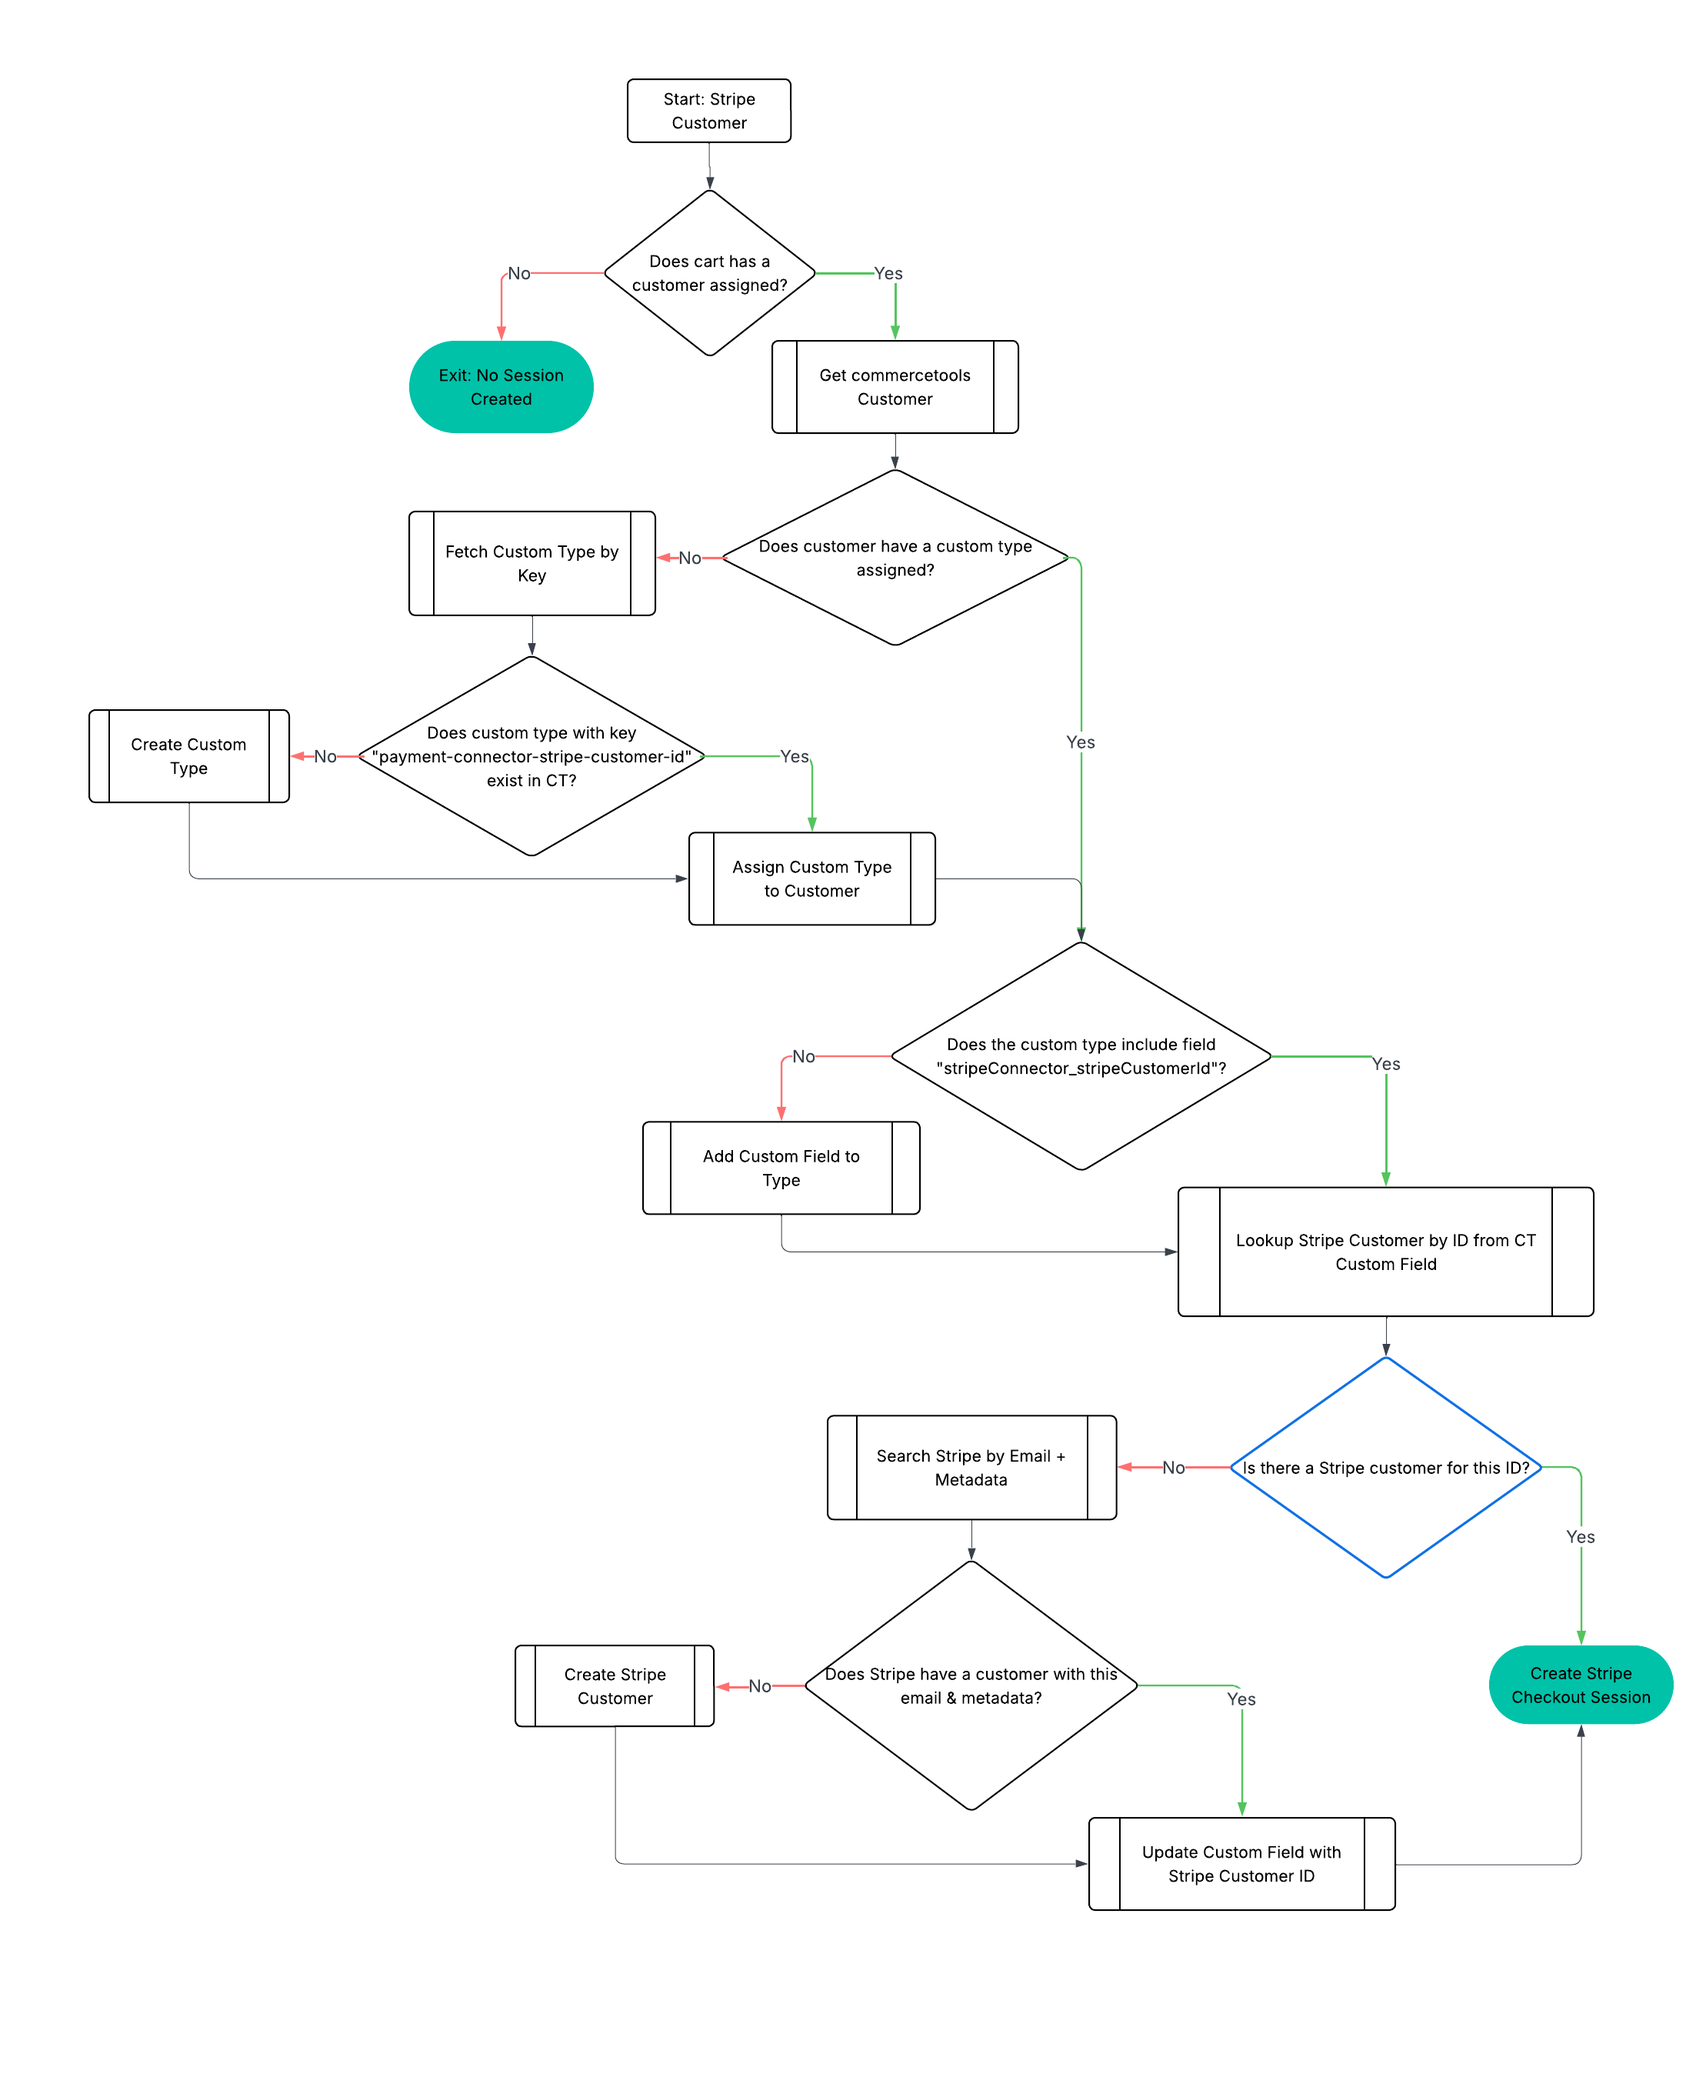
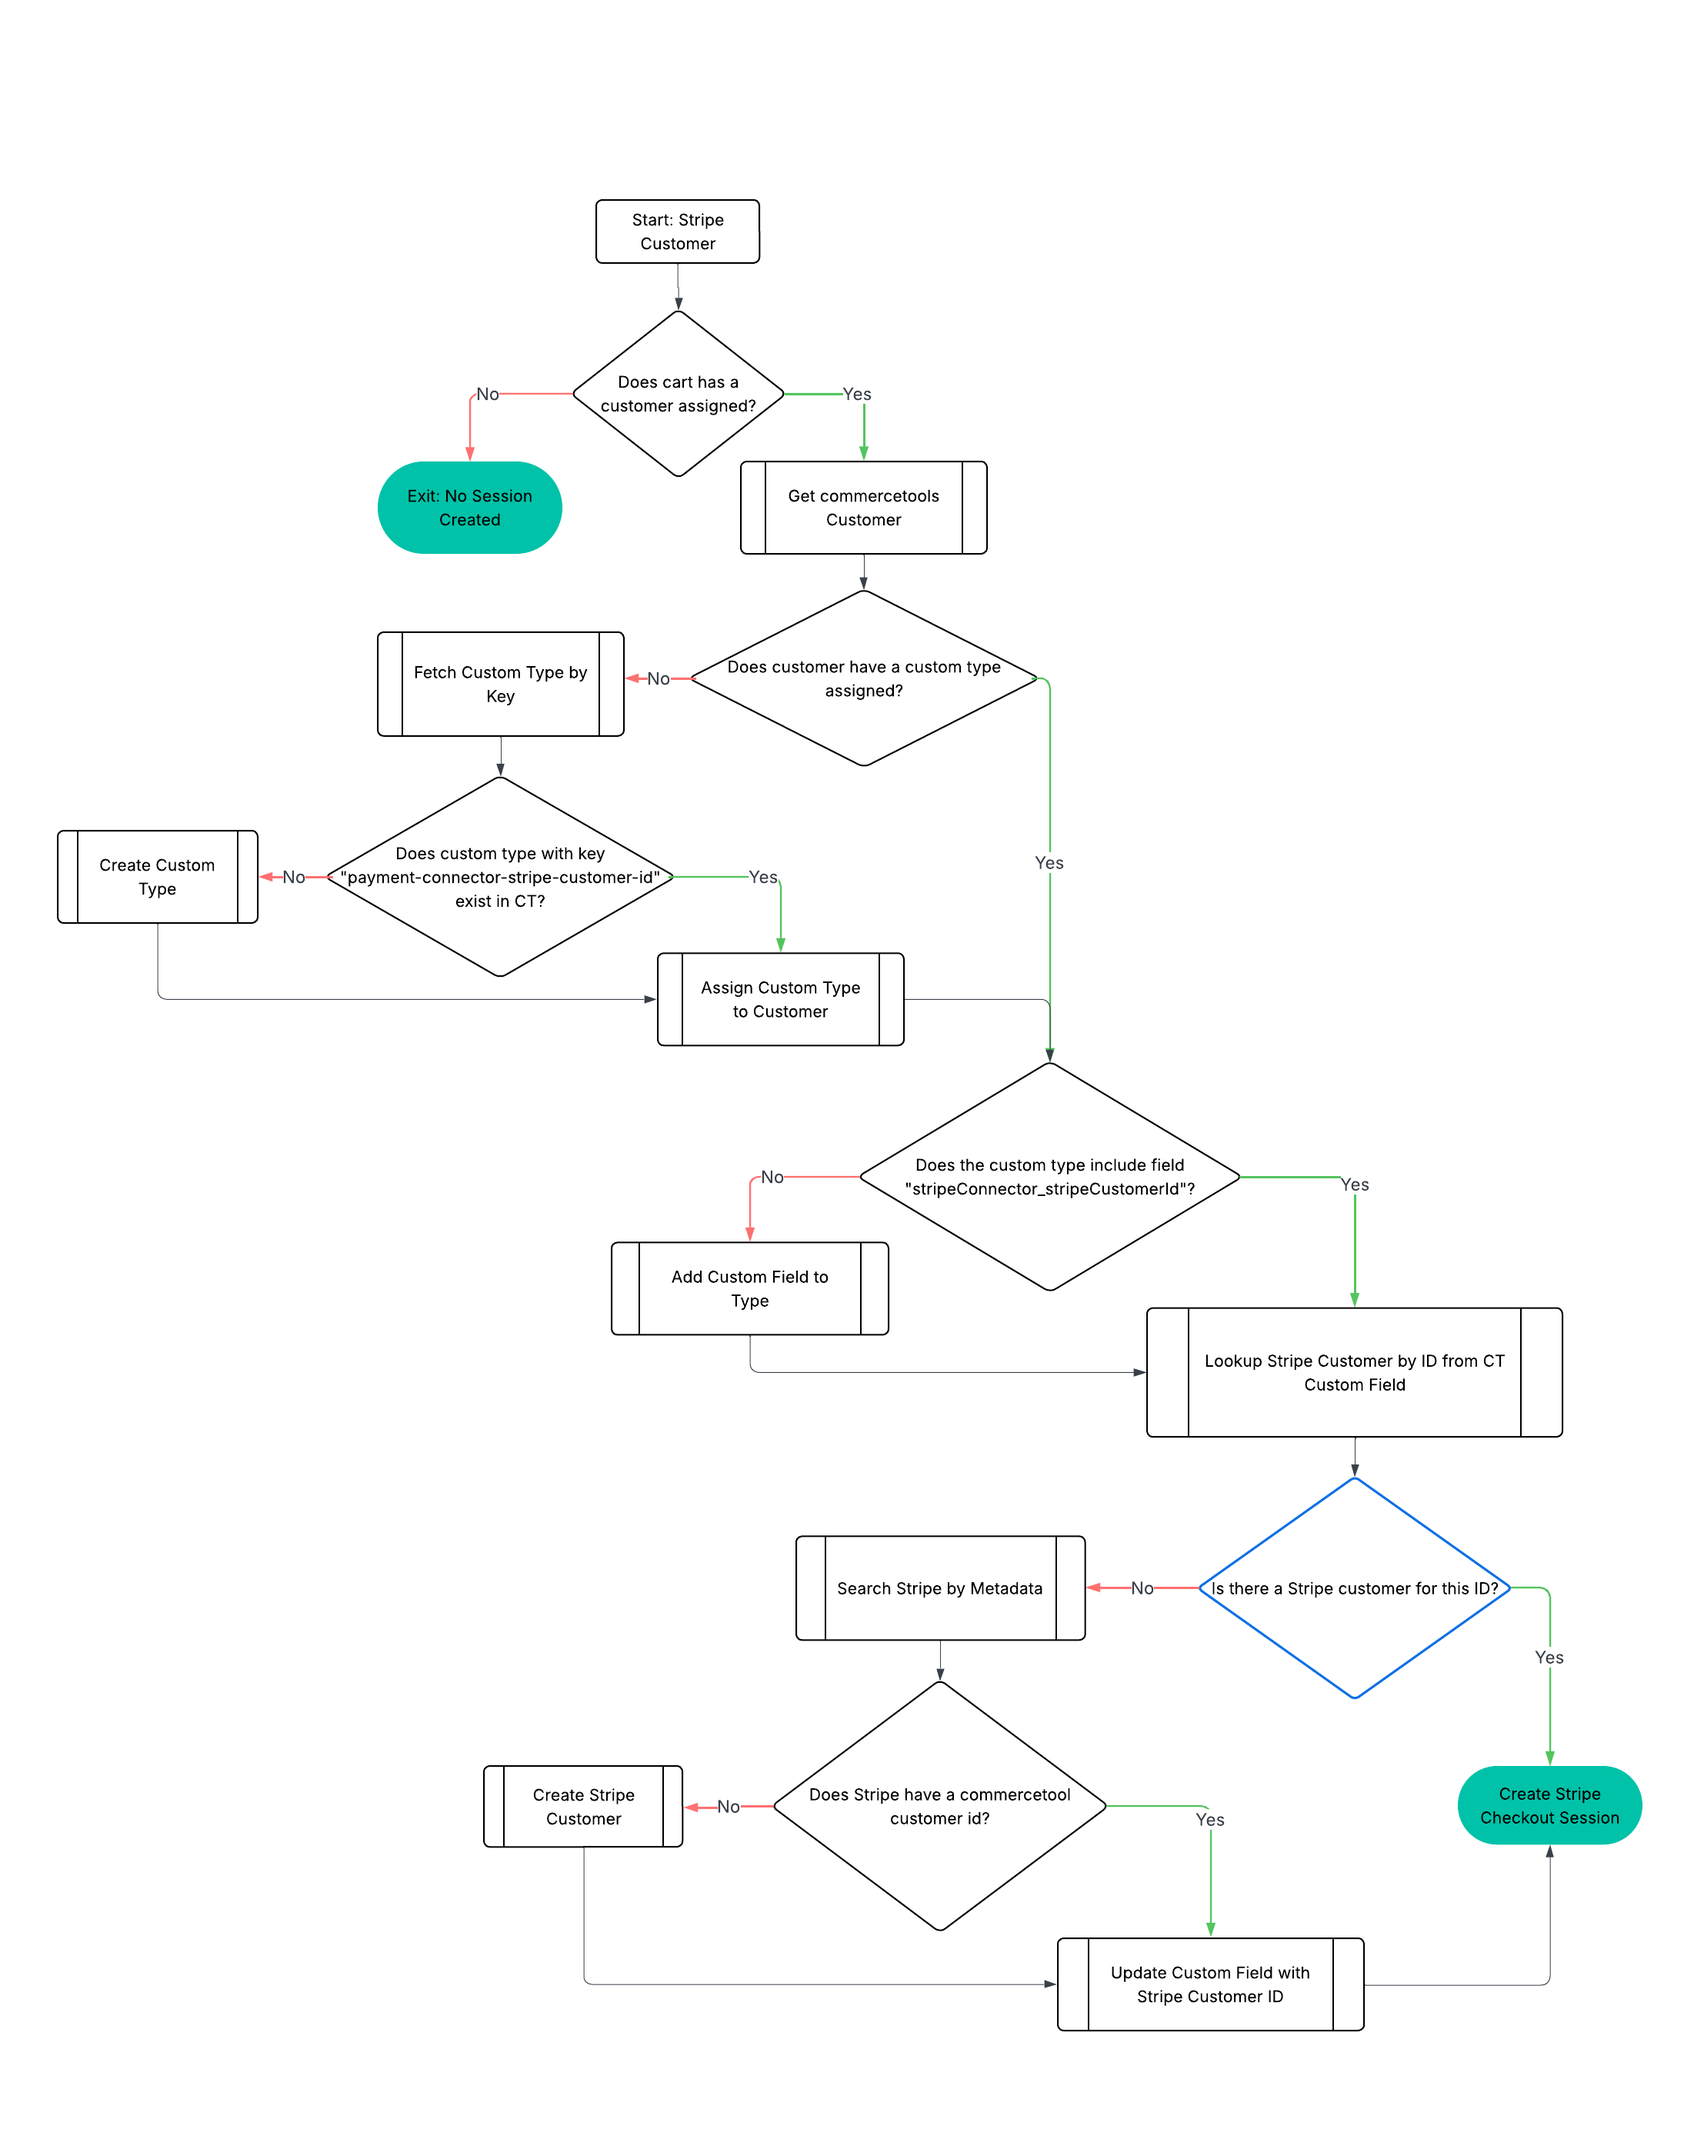
feat: Refactor findStripeCustomer method to use ctCustomerId directly and simplify customer search query
Tags #319 SB3-18

diff --git a/processor/src/services/stripe-payment.service.ts b/processor/src/services/stripe-payment.service.ts
@@ -524,7 +524,7 @@ export class StripePaymentService extends AbstractPaymentService {
 
     const email = cart.customerEmail || cart.shippingAddress?.email || customer.email;
 
-    const existingCustomer = await this.findStripeCustomer(email, customer.id);
+    const existingCustomer = await this.findStripeCustomer(customer.id);
     if (existingCustomer?.id) {
       await this.saveStripeCustomerId(existingCustomer?.id, customer);
 
@@ -551,8 +551,8 @@ export class StripePaymentService extends AbstractPaymentService {
     }
   }
 
-  public async findStripeCustomer(email: string, ctCustomerId: string): Promise<Stripe.Customer | undefined> {
-    const query = `email:'${email}' AND metadata['ct_customer_id']:'${ctCustomerId}'`;
+  public async findStripeCustomer(ctCustomerId: string): Promise<Stripe.Customer | undefined> {
+    const query = `metadata['ct_customer_id']:'${ctCustomerId}'`;
     const customer = await stripeApi().customers.search({ query });
     return customer.data[0];
   }
